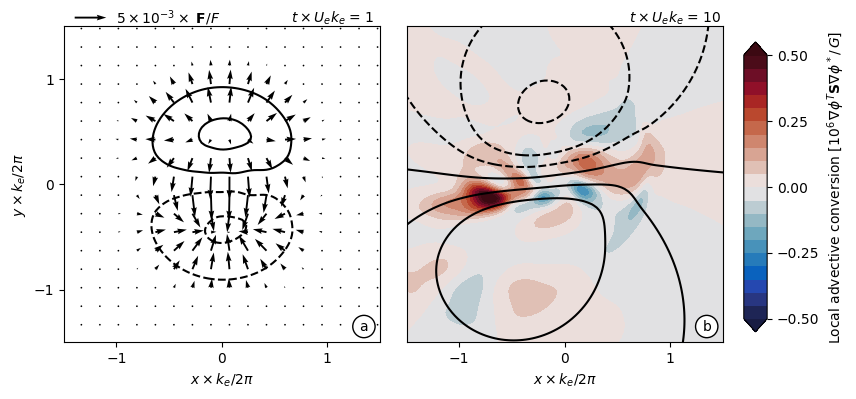
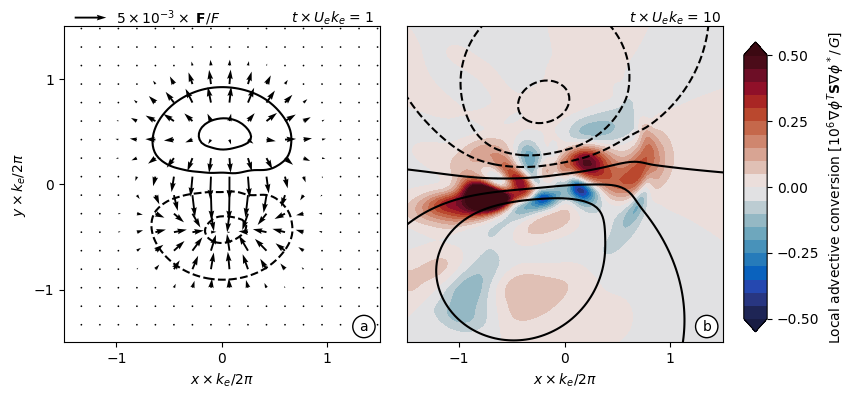
Updates u

Changed region(s): [[0.4556, 0.3008, 0.7897, 0.6015], [0.486, 0.6316, 0.6682, 0.8421], [0.6986, 0.5714, 0.729, 0.6316]]

diff --git a/code/Figure2New.py b/code/Figure2New.py
@@ -82,8 +82,8 @@ for i in range(2):
 
     gradphi2 = np.abs(phix)**2 + np.abs(phiy)**2
 
-    a, b = -pxy, 0.5*(pxx-pyy)
-    Ga =  a*( np.abs(phiy)**2 - np.abs(phix)**2 ) + 2*b*np.real(np.conj(phiy)*phix)
+    a, b = -pxy, (pxx-pyy)
+    Ga =  (2*a*( np.abs(phiy)**2 - np.abs(phix)**2 ) + b*np.real(np.conj(phiy)*phix))
 
     
 

diff --git a/code/Figure5.py b/code/Figure5.py
@@ -200,4 +200,4 @@ fig.colorbar(im2, cax=cbar_ax,label=r"Potential vorticity $[q \times (U_e k_e)^{
 
 plt.savefig(patho+"fig5.png",  transparent=True,
             pad_inches=0,
-            bbox_inches='tight', dpi = 400)
+            bbox_inches='tight',) #dpi = 400)

diff --git a/code/Figure3.py b/code/Figure3.py
@@ -150,4 +150,4 @@ fig.colorbar(imb, cax=cbar_ax,label=r"Wave buoyancy $[b/B]$",
 
 plt.savefig(patho+"fig3.png", transparent=True,
             pad_inches=0,
-            bbox_inches='tight',dpi=400)
+            bbox_inches='tight',)#dpi=400)
